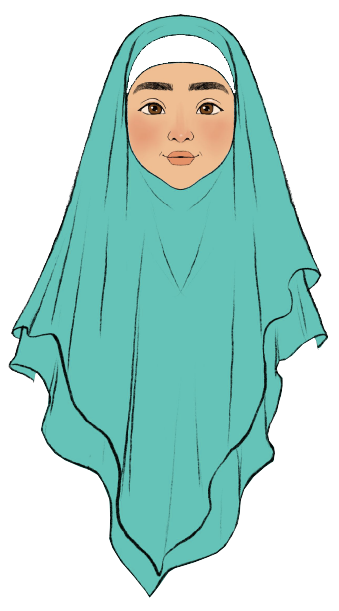
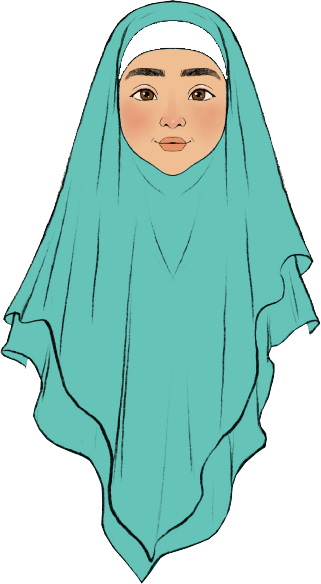
valide

diff --git a/game.js b/game.js
@@ -364,8 +364,12 @@ class Malabis extends Phaser.Scene {
 
 
   valider() {
+    if (this.room1) {
+      this.room1.destroy();
+      this.valide.destroy();
+    }
     // Afficher l'image de fond du stage
-    this.add.image(420, 250, 'bgStage').setScale(0.44);
+   this.bgStage = this.add.image(420, 250, 'bgStage').setScale(0.44);
      // Mise à jour du stage
      
     if ( this.stagenum >=1) {
@@ -416,12 +420,14 @@ class Malabis extends Phaser.Scene {
        console.log(this.stagenum)
     }
 
-
+    
   
 }
 
   validSt (){
-    this.add.image(800 / 2, 500 / 2, 'room1').setScale(0.45);
+    this.bgStage.setVisible(false);
+
+    this.room1 = this.add.image(800 / 2, 500 / 2, 'room1').setScale(0.45);
     // this.vit = this.add.image(600 / 2, 600 / 2, 'vitrine').setScale(0.9);
     // this.vit.skew = 45;
 
@@ -431,7 +437,7 @@ class Malabis extends Phaser.Scene {
    this.sabat = this.add.image(1202 / 2, 934 / 2, ).setScale(0.37);
    this.image1 = this.add.image(1200 / 2, 673 / 2, ).setScale(0.325);
    this.miniDara = this.add.image(1199 / 2, 350 / 2,).setScale(0.315);
-   this.cha3r = this.add.image(1190 / 2, 490 / 2, ).setScale(0.35);
+   this.cha3r = this.add.image(1191 / 2, 493/ 2, ).setScale(0.35);
     // Charger l'état du personnage depuis le localStorage
 
     //action flish
@@ -465,6 +471,7 @@ class Malabis extends Phaser.Scene {
     this.valide.setInteractive({useHandCursor:true})
     this.valide.on('pointerdown', () => this.valider());
 
+    
   }
 
 
